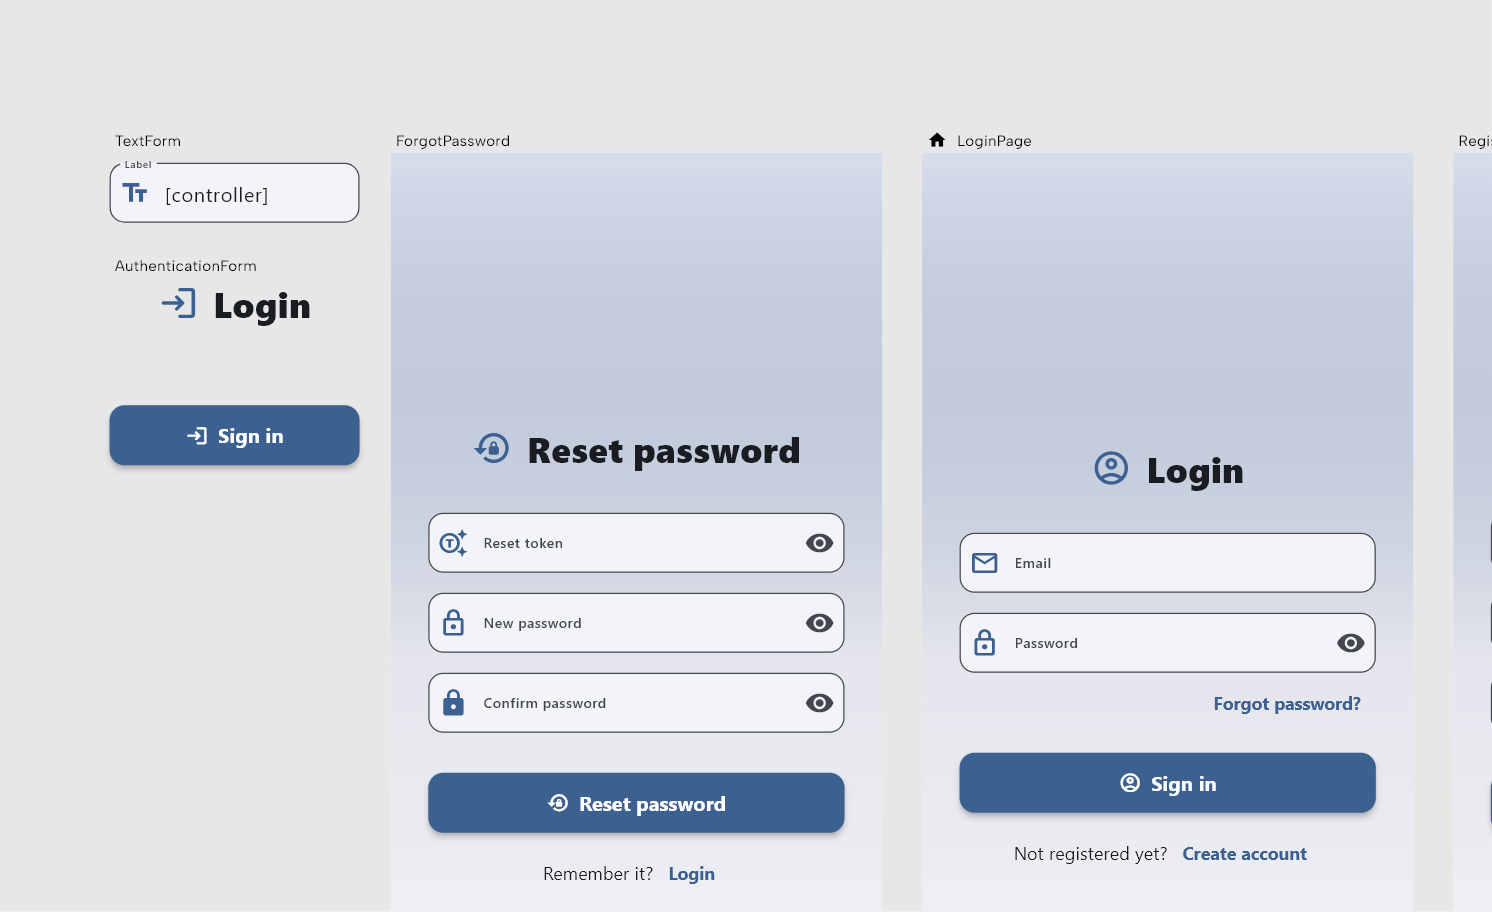
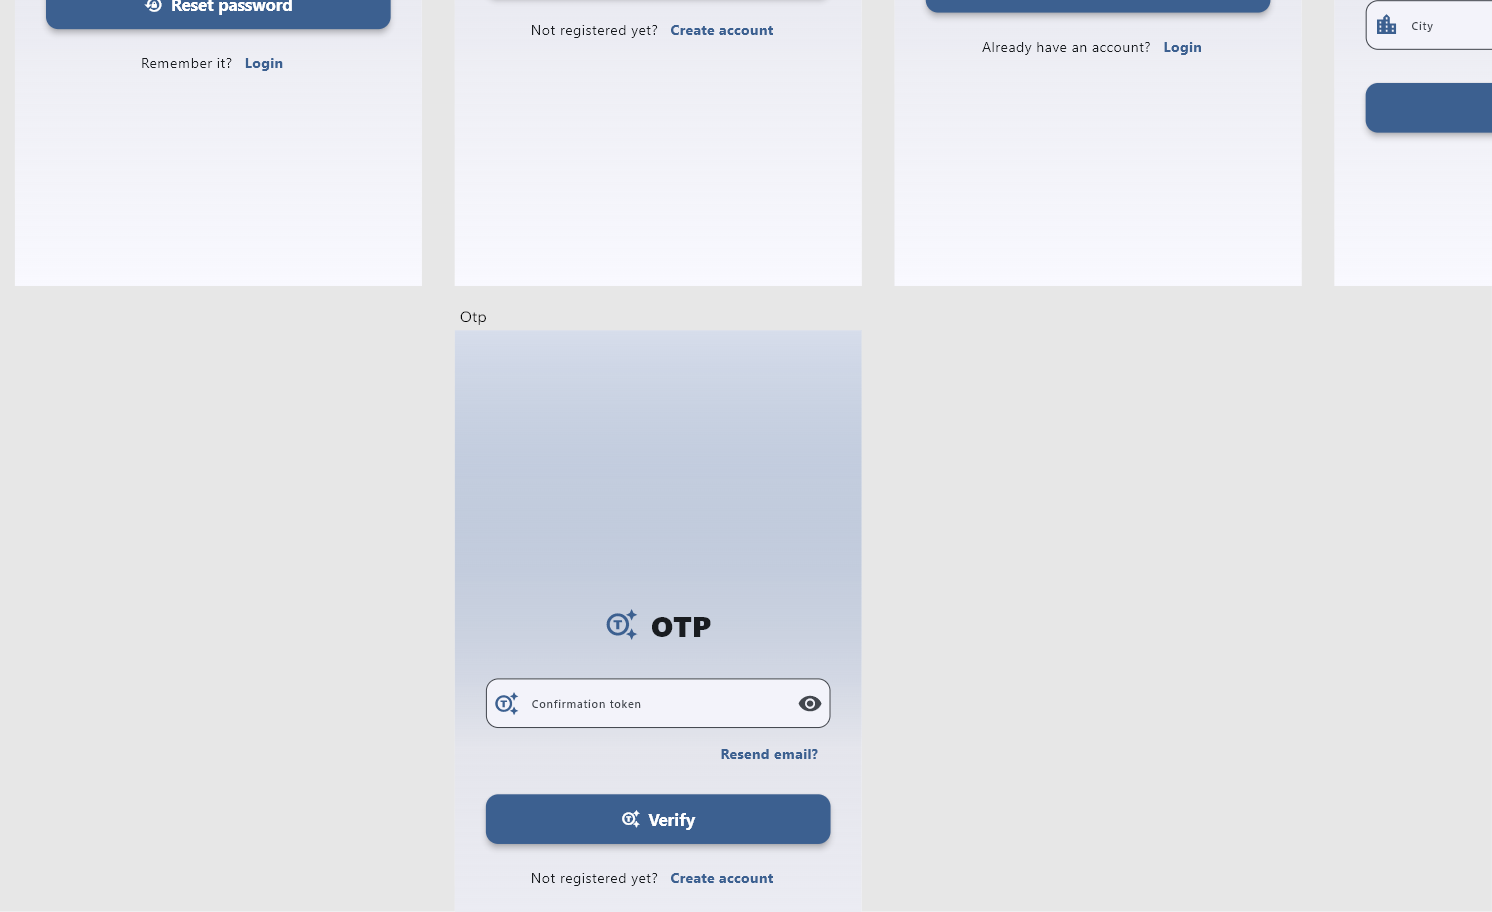
✨ Update forgot password page: add functionality to resend email with custom input

diff --git a/lib/pages/forgot_password.dart b/lib/pages/forgot_password.dart
@@ -72,6 +72,105 @@ class _ForgotPasswordState extends State<ForgotPassword> {
                           errorMessage: 'Token must be 6 digits',
                           validators: [RegExp('^\\d{6}\$')],
                         ),
+                        Align(
+                          alignment: const Alignment(1.0, 0.0),
+                          child: TextButton(
+                            onPressed: () {
+                              final emailController = TextEditingController(
+                                text: widget.email ?? '',
+                              );
+                              showDialog<String>(
+                                context: context,
+                                useRootNavigator: false,
+                                anchorPoint: const Offset(0.0, 0.0),
+                                builder: (context) => AlertDialog(
+                                  title: const Text('Resend email'),
+                                  content: TextField(
+                                    decoration: const InputDecoration(
+                                      labelText: 'Email',
+                                    ),
+                                    keyboardType: TextInputType.emailAddress,
+                                    controller: emailController,
+                                  ),
+                                  actions: [
+                                    TextButton(
+                                      onPressed: () {
+                                        Navigator.of(
+                                          context,
+                                        ).pop(emailController.text);
+                                      },
+                                      child: const Text('Confirm'),
+                                    ),
+                                    TextButton(
+                                      onPressed: () {
+                                        Navigator.of(context).pop();
+                                      },
+                                      child: const Text('Cancel'),
+                                    ),
+                                  ],
+                                ),
+                              ).then((confirmedEmail) {
+                                if (confirmedEmail != null &&
+                                    confirmedEmail!.isNotEmpty) {
+                                  SupabaseService()
+                                      .resetPasswordForEmail(
+                                        emailController.text,
+                                      )
+                                      .then(
+                                        (value) {
+                                          ScaffoldMessenger.of(
+                                            context,
+                                          ).showSnackBar(
+                                            const SnackBar(
+                                              content: Text('Email resent'),
+                                            ),
+                                          );
+                                        },
+                                        onError: (error) {
+                                          ScaffoldMessenger.of(
+                                            context,
+                                          ).showSnackBar(
+                                            SnackBar(
+                                              content: Text(
+                                                RegExp('message:\\s*([^,]+)')
+                                                        .firstMatch(
+                                                          error.toString(),
+                                                        )
+                                                        ?.group(1) ??
+                                                    'Error raised',
+                                              ),
+                                              backgroundColor: Theme.of(
+                                                context,
+                                              ).colorScheme.error,
+                                            ),
+                                          );
+                                        },
+                                      );
+                                } else {
+                                  ScaffoldMessenger.of(context).showSnackBar(
+                                    SnackBar(
+                                      content: const Text(
+                                        'No email address provided',
+                                      ),
+                                      backgroundColor: Theme.of(
+                                        context,
+                                      ).colorScheme.error,
+                                    ),
+                                  );
+                                }
+                              });
+                            },
+                            child: Text(
+                              'Resend email?',
+                              textAlign: TextAlign.end,
+                              style: TextStyle(
+                                fontWeight: FontWeight.w700,
+                                fontSize: 14.0,
+                                color: Theme.of(context).colorScheme.primary,
+                              ),
+                            ),
+                          ),
+                        ),
                         TextForm(
                           label: 'New password',
                           controller: newPasswordController,

diff --git a/lib/otp.dart b/lib/otp.dart
@@ -142,7 +142,7 @@ class _OtpState extends State<Otp> {
                                           context,
                                         ).showSnackBar(
                                           const SnackBar(
-                                            content: Text('Email sent'),
+                                            content: Text('Email resent'),
                                           ),
                                         );
                                       },
